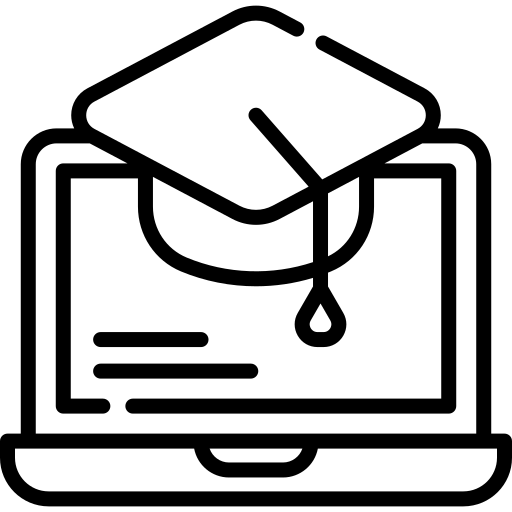
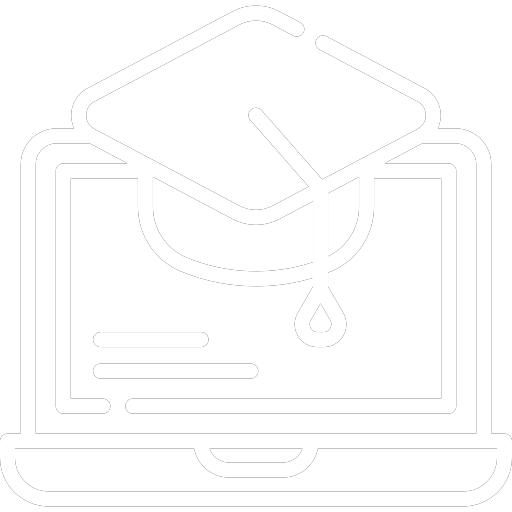
created dark mode context

Changed region(s): [[0.0, 0.0, 1.0, 1.0]]

diff --git a/app/navbar/page.js b/app/navbar/page.js
@@ -1,0 +1,68 @@
+"use client"
+import React from 'react'
+import { useState,useEffect} from 'react';
+import { UserAuth } from '../context/AuthContextProvider';
+import Image from "next/image";
+import Link from 'next/link';
+import {useRouter} from 'next/navigation';
+import { logout } from '../functions/auth';
+import { useDarkMode } from '../darkModeContext/page';
+
+export default function Navbar() {
+    const { user } = UserAuth() || {};
+    const router = useRouter();
+    const {darkMode, toggleDarkMode} = useDarkMode();
+
+    const handleLogout = async () => {
+        await logout();
+        router.push("/"); // Redirect to home after logout
+    };
+  return (
+      <div className="flex">
+      {/* Sidebar */}
+      <nav className={`${darkMode ? "bg-gray-900" : "bg-blue-950"} w-20 flex flex-col items-center py-6 space-y-6 fixed h-full shadow-lg`}>
+        {/* User Profile in Sidebar */}
+        <div className="text-center">
+          <Image src="/images/person.png" alt="User" width={40} height={40} />
+          <p className="text-sm mt-1 text-white">{user?.name || "Guest"}</p>
+        </div>
+
+        {/* Navigation Links */}
+        <Link href="/home">
+          <div className="w-50 h-50 flex flex-col items-center gap-1 p-2 rounded-lg hover:bg-purple-300 transition duration-300 group">
+            <Image src="/images/dashboards.png" alt="Dashboard" width={40} height={40} />
+            <p className="text-white text-xs opacity-0 group-hover:opacity-100">Dashboard</p>
+          </div>
+        </Link>
+        <Link href="/courses">
+          <div className="w-50 h-50 flex flex-col items-center gap-1 p-2 rounded-lg hover:bg-purple-300 transition duration-300 group">
+            <Image src="/images/courses.png" alt="Courses" width={40} height={40} />
+            <p className="text-white text-xs opacity-0 group-hover:opacity-100">Courses</p>
+          </div>
+        </Link>
+        <Link href="/summary">
+          <div className="w-50 h-50 flex flex-col items-center gap-1 p-2 rounded-lg hover:bg-purple-300 transition duration-300 group">
+            <Image src="/images/summary.png" alt="Courses" width={40} height={40} />
+            <p className="text-white text-xs opacity-0 group-hover:opacity-100">Summarise</p>
+          </div>
+        </Link>
+        <Link href="/settings">
+          <div className="w-50 h-50 flex flex-col items-center gap-1 p-2 rounded-lg hover:bg-purple-300 transition duration-300 group">
+            <Image src="/images/settings.png" alt="Settings" width={40} height={40} />
+            <p className="text-white text-xs opacity-0 group-hover:opacity-100">Settings</p>
+          </div>
+        </Link>
+
+        {/* Dark Mode Toggle */}
+        <button className="w-50 h-50 flex flex-col items-center gap-1 p-2 rounded-lg hover:bg-purple-300 transition duration-300" onClick={toggleDarkMode}>
+          {darkMode ? "🌞" : "🌙"}
+        </button>
+
+        {/* Logout Button */}
+        <button className="w-50 h-50 flex flex-col items-center gap-1 mt-auto p-2 rounded-lg hover:bg-purple-300 transition duration-300" onClick={handleLogout}>
+          <Image src="/images/turn-off.png" alt="Logout" width={40} height={40} />
+        </button>
+      </nav>
+    </div>
+  )
+}

diff --git a/app/home/page.js b/app/home/page.js
@@ -5,71 +5,16 @@ import Link from "next/link";
 import { UserAuth } from "../context/AuthContextProvider";
 import { logout } from "../functions/auth";
 import { useRouter } from "next/navigation";
+import { useDarkMode } from "../darkModeContext/page";
 
 export default function Home() {
   const { user } = UserAuth() || {};
   const router = useRouter();
-  const [darkMode, setDarkMode] = useState(false);
-
-  // Load dark mode preference from local storage
-  useEffect(() => {
-    const savedMode = localStorage.getItem("darkMode") === "true";
-    setDarkMode(savedMode);
-  }, []);
-
-  // Toggle Dark Mode
-  const toggleDarkMode = () => {
-    const newMode = !darkMode;
-    setDarkMode(newMode);
-    localStorage.setItem("darkMode", newMode);
-  };
-
-  const handleLogout = async () => {
-    await logout();
-    router.push("/"); // Redirect to home after logout
-  };
+  const {darkMode} = useDarkMode();
 
   return (
     <div className={`${darkMode ? "bg-gray-900 text-white" : "bg-blue-950 text-black"} h-screen w-screen flex`}>
-      {/* Sidebar */}
-      <nav className="w-20 flex flex-col items-center py-6 space-y-6 fixed h-full shadow-lg">
-        {/* User Profile in Sidebar */}
-        <div className="text-center">
-          <Image src="/images/person.png" alt="User" width={40} height={40} />
-          <p className="text-sm mt-1">{user?.name || "Guest"}</p>
-        </div>
-
-        {/* Navigation Links */}
-        <Link href="/">
-          <div className="p-2 rounded-lg hover:bg-yellow-300 transition duration-300 group">
-            <Image src="/images/dashboards.png" alt="Dashboard" width={40} height={40} />
-            <p className="text-xs opacity-0 group-hover:opacity-100">Dashboard</p>
-          </div>
-        </Link>
-        <Link href="/courses">
-          <div className="p-2 rounded-lg hover:bg-green-300 transition duration-300 group">
-            <Image src="/images/courses.png" alt="Courses" width={40} height={40} />
-            <p className="text-xs opacity-0 group-hover:opacity-100">Courses</p>
-          </div>
-        </Link>
-        <Link href="/settings">
-          <div className="p-2 rounded-lg hover:bg-purple-300 transition duration-300 group">
-            <Image src="/images/settings.png" alt="Settings" width={40} height={40} />
-            <p className="text-xs opacity-0 group-hover:opacity-100">Settings</p>
-          </div>
-        </Link>
-
-        {/* Dark Mode Toggle */}
-        <button className="p-2 rounded-lg hover:bg-gray-700 transition duration-300" onClick={toggleDarkMode}>
-          {darkMode ? "🌞" : "🌙"}
-        </button>
-
-        {/* Logout Button */}
-        <button className="mt-auto p-2 rounded-lg hover:bg-red-300 transition duration-300" onClick={handleLogout}>
-          <Image src="/images/turn-off.png" alt="Logout" width={40} height={40} />
-        </button>
-      </nav>
-
+      
       {/* Main Content */}
       <main className="flex-1 flex flex-col justify-start p-8 ml-20">
         {/* Welcome Section */}

diff --git a/app/summary/page.js b/app/summary/page.js
@@ -8,11 +8,13 @@ import { createData } from "../functions/crud";
 import { UserAuth } from "../context/AuthContextProvider";
 import flashcard from "../flashcards/page";
 import { useRouter } from "next/navigation";
+import { darkMode, useDarkMode } from "../darkModeContext/page";
 
  export default function Summary(){
 
     const { user } = UserAuth() || {};
     const router = useRouter();
+    const {darkMode} = useDarkMode();
 
     const [selectedFile, setSelectedFile] = useState(null);
     const [text,setText] = useState("");
@@ -153,9 +155,8 @@ import { useRouter } from "next/navigation";
     }
 
     return(
-        <div className="h-screen w-screen bg-blue-950 flex">
+        <div className={`${darkMode ? "bg-gray-900 text-white" : "bg-blue-950 text-black"} h-screen w-screen flex`}>
             <main className="flex-1 flex justify-center items-center p-8">
-            <div className="w-[105%] h-[107%] bg-white rounded-2xl shadow-lg p-8 flex flex-grow flex-col items-center justify-center">
             <div className="bg-white rounded-2xl shadow-lg w-[90%] h-[90%] p-6 flex flex-col gap-y-6">
                 <h2 className="text-xl font-semibold mb-4 text-center">Share your work</h2>
                 <p className="text-gray-500 text-sm mb-4 text-center">What have you been working on?</p>
@@ -172,13 +173,7 @@ import { useRouter } from "next/navigation";
                         <p ><Image src="/images/cloud-computing.png" alt="Signup" width={40} height={40} /></p>
                     </div>
 
-                    {/*<textarea 
-                        type="text"
-                        value={text}
-                        onChange={(e) => setText(e.target.value)}
-                    />*/}
                     </label>
-                    {/* Display selected file */}
                     {selectedFile && (
                         <div className="mt-3 text-sm text-center text-gray-700">
                             <p className="font-medium">{selectedFile.name}</p>
@@ -203,7 +198,6 @@ import { useRouter } from "next/navigation";
                     <button className="px-4 py-2 bg-blue-500 text-white rounded-md" onClick={summarizeText}>Upload</button>
                     <button className="px-4 py-2 text-gray-600 bg-gray-200 rounded-md" onClick ={handleGenerateFlashcards} >Generate Flashcards</button>
                 </div>
-            </div>
             </div>
             </main>
         </div>

diff --git a/app/flashcards/page.js b/app/flashcards/page.js
@@ -4,10 +4,12 @@ import { GoogleGenerativeAI } from "@google/generative-ai";
 import { useEffect,useState } from 'react';
 import { useSearchParams } from "next/navigation";
 import Image from "next/image";
+import darkMode, { useDarkMode } from "../darkModeContext/page";
 
     
 export default function flashcard() {
     const searchParams = useSearchParams();
+    const {darkMode} = useDarkMode();
     const summary = decodeURIComponent(searchParams.get("summary") || "");
     //const [flashcards, setFlashcards] = useState([]);
     const [questions,setQuestions] = useState([]);
@@ -52,7 +54,23 @@ export default function flashcard() {
         generateFlashcards();
     }, []);   
   return (
-    <div className="h-screen w-screen bg-blue-950 flex">
+    <div className={`${darkMode ? "bg-gray-900 text-white" : "bg-blue-950 text-black"} h-screen w-screen flex`}>
+      <main className="flex-1 flex justify-center items-center p-8">
+      {questions.length > 0 && (
+        <div className="ques-option relative border p-6 rounded-xl shadow-lg bg-white text-center w-3/4 h-3/4 flex flex-col justify-center items-center">
+          <h2 className="font-bold text-2xl">{questions[currentIndex].question}</h2>
+          <p className="text-xl">Answer: {questions[currentIndex].answer}</p>
+          <button 
+            onClick={handleSwitch} 
+            className='absolute bottom-4 right-4'
+          >
+            <Image src="/images/next.png" alt="next" width={40} height={40} />
+          </button>
+        </div>
+      )}
+      </main>
+    </div>
+   /* <div className="h-screen w-screen bg-blue-950 flex">
       <main className="flex-1 flex justify-center items-center p-8">
         <div className="w-[105%] h-[107%] bg-white rounded-2xl shadow-lg p-8 flex justify-center items-center">
             {questions.length > 0 && (
@@ -69,6 +87,6 @@ export default function flashcard() {
             )}
         </div>
       </main>
-    </div>
+    </div>*/
   )
 }

diff --git a/app/layout.js b/app/layout.js
@@ -1,7 +1,11 @@
 
 /*import { Geist, Geist_Mono } from "next/font/google";*/
+"use client"
 import AuthContextProvider from "./context/AuthContextProvider";
 import "./globals.css";
+import Navbar from "./navbar/page";
+import { useRouter } from "next/navigation";
+import { DarkModeProvider } from "./darkModeContext/page";
 
 /*const geistSans = Geist({
   variable: "--font-geist-sans",
@@ -19,13 +23,21 @@ export const metadata = {
 };*/
 
 export default function RootLayout({ children }) {
+  const router = useRouter();
+
+  // Hide navbar only on the landing page ("/")
+  const showNavbar = router.pathname !== "/";
   return (
     <html lang="en">
       <body
         /*className={`${geistSans.variable} ${geistMono.variable} antialiased`}*/
       >
         <AuthContextProvider>
-          {children}
+          <DarkModeProvider>
+            {showNavbar && <Navbar />}
+        
+            {children}
+          </DarkModeProvider>
         </AuthContextProvider>
       </body>
     </html>

diff --git a/app/darkModeContext/page.js b/app/darkModeContext/page.js
@@ -1,0 +1,27 @@
+"use client";
+import { createContext, useContext, useEffect, useState } from "react";
+
+const DarkModeContext = createContext();
+
+export const DarkModeProvider = ({ children }) => {
+  const [darkMode, setDarkMode] = useState(false);
+
+  useEffect(() => {
+    const savedMode = localStorage.getItem("darkMode") === "true";
+    setDarkMode(savedMode);
+  }, []);
+
+  const toggleDarkMode = () => {
+    const newMode = !darkMode;
+    setDarkMode(newMode);
+    localStorage.setItem("darkMode", newMode);
+  };
+
+  return (
+    <DarkModeContext.Provider value={{ darkMode, toggleDarkMode }}>
+      {children}
+    </DarkModeContext.Provider>
+  );
+};
+
+export const useDarkMode = () => useContext(DarkModeContext);
